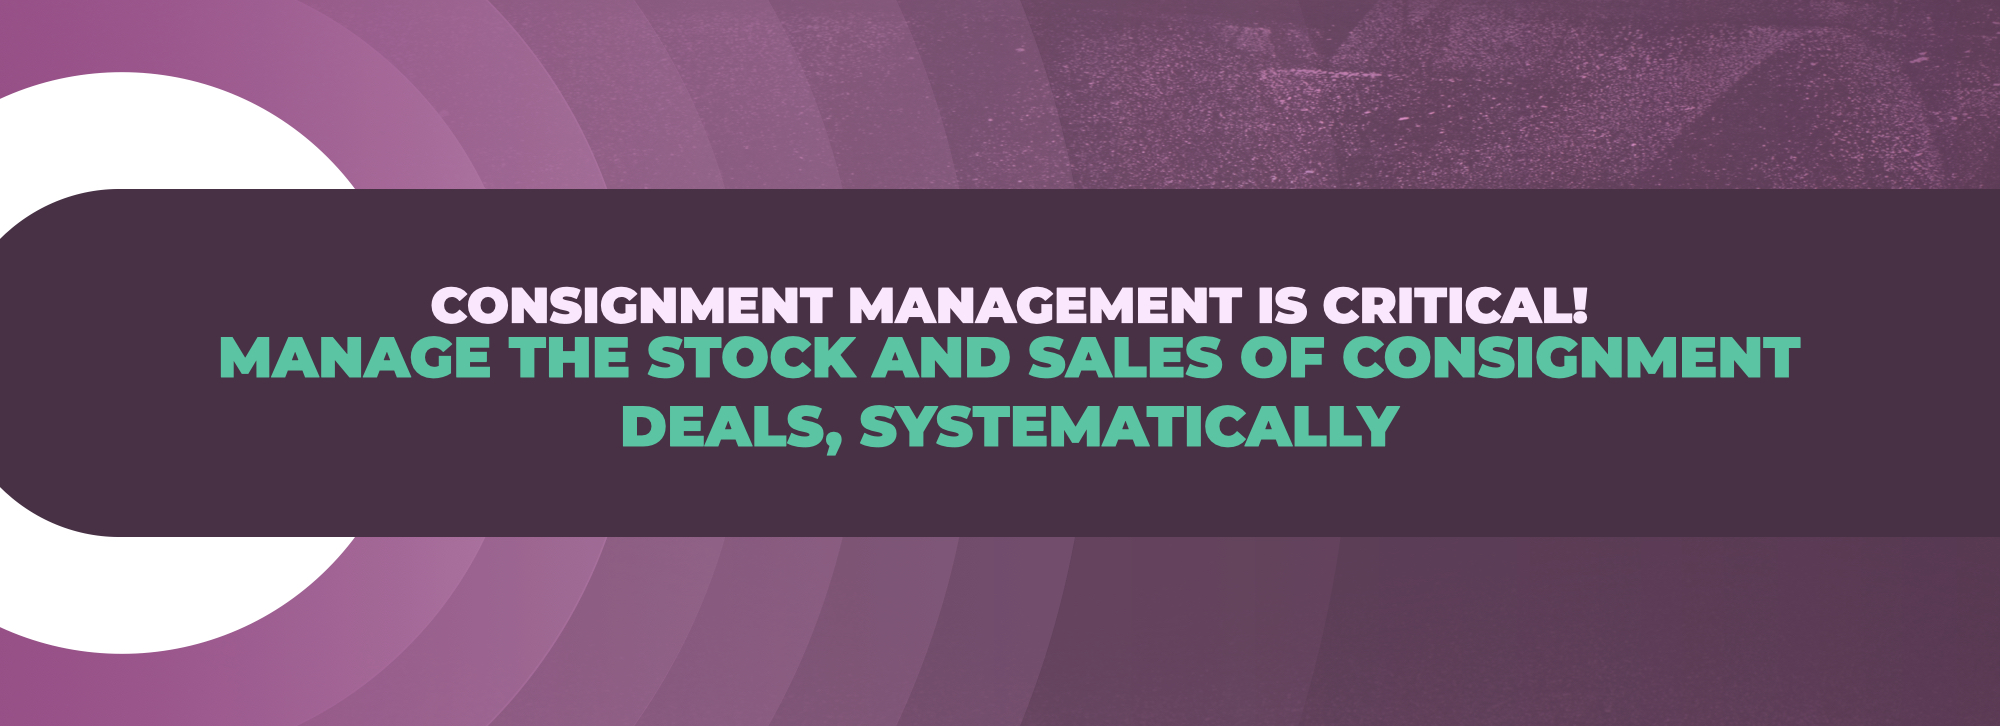
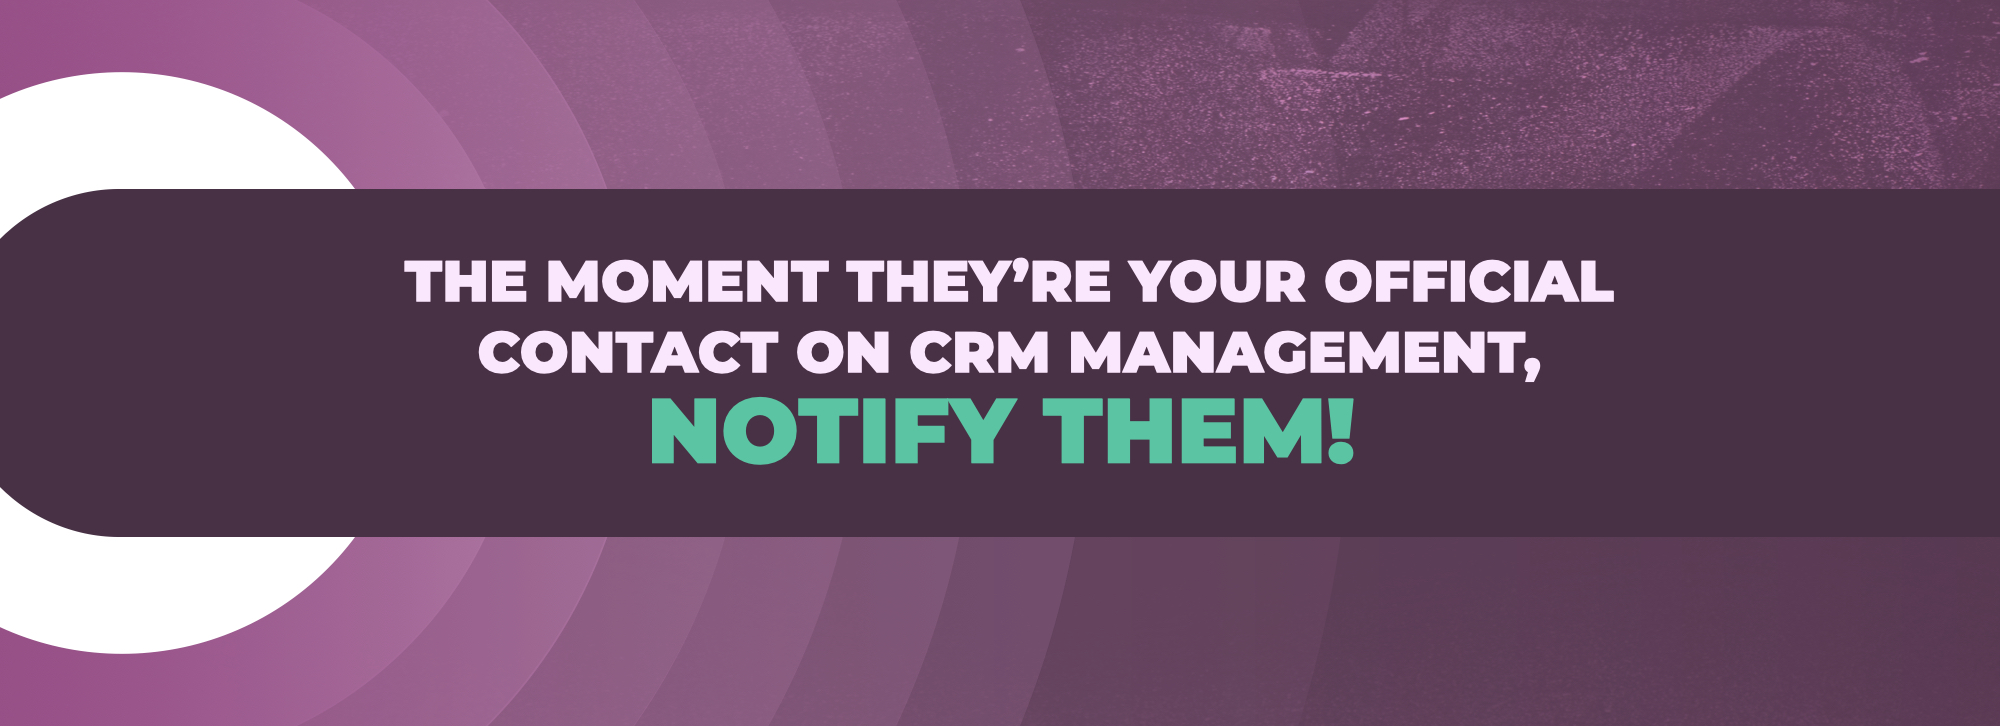
ffffff

Changed region(s): [[0.093, 0.3333, 0.899, 0.6364]]

diff --git a/7d_pos_test/static/description/index.html b/7d_pos_test/static/description/index.html
@@ -52,18 +52,20 @@
 
      <div style="background-color: #f6edf3; border-radius: 8px; padding: 20px; box-shadow: 0px 4px 8px rgba(0, 0, 0, 0.1); margin: 20px">
           <img src="images/features 1.png" style="width: 90px; padding: 10px 0" />
-          <h2 style="font-size: 20px; margin-bottom: 10px">Allows you to manage the stock and sales cycle of consignment orders</h2>
+          <h2 style="font-size: 20px; margin-bottom: 10px">Sends a notification email to recipients when your CRM Contact Form is submitted</h2>
      </div>
      <div style="background-color: #f6edf3; border-radius: 8px; padding: 20px; box-shadow: 0px 4px 8px rgba(0, 0, 0, 0.1); margin: 20px">
           <img src="images/features 2.png" style="width: 90px; padding: 10px 0" />
-          <h2 style="font-size: 20px; margin-bottom: 10px">All these put under one tab within the Sales > Consignment menu, easy to navigate</h2>
+          <h2 style="font-size: 20px; margin-bottom: 10px">
+               Let's them know that they are your lead / prospect customer, creates a confident opportunity
+          </h2>
           <!-- <p>text22222.</p> -->
      </div>
-     <div style="background-color: #f6edf3; border-radius: 8px; padding: 20px; box-shadow: 0px 4px 8px rgba(0, 0, 0, 0.1); margin: 20px">
+     <!-- <div style="background-color: #f6edf3; border-radius: 8px; padding: 20px; box-shadow: 0px 4px 8px rgba(0, 0, 0, 0.1); margin: 20px">
           <img src="images/features 3.png" style="width: 90px; padding: 10px 0" />
           <h2 style="font-size: 20px; margin-bottom: 10px">Consignment Returns and Transfers also made available in this module</h2>
-          <!-- <p>text22222.</p> -->
-     </div>
+          <p>text22222.</p>
+     </div> -->
 </section>
 <!-- ------------------------------------------------------------------------------------------ -->
 
@@ -82,7 +84,7 @@
      <h2 style="grid-column: 1/3; text-align: center; color: #676767; font-weight: 700">HOW IT WORKS</h2>
      <div style="background-color: #ffffff; border-radius: 8px; padding: 20px; box-shadow: 0px 4px 8px rgba(0, 0, 0, 0.1); margin: 20px">
           <!-- <img src="images/HIW-1.png" style="width: 10vh;" /> -->
-          <h2 style="font-size: 20px; margin-bottom: 10px">No configuration required. Implement and set your consignment partners</h2>
+          <h2 style="font-size: 20px; margin-bottom: 10px">No configuration required, install and review the contact form in CRM Leads</h2>
           <!-- <p>text1111111.</p> -->
      </div>
      <!-- <div style="background-color: #ffffff; border-radius: 8px; padding: 20px; box-shadow: 0px 4px 8px rgba(0, 0, 0, 0.1); margin: 20px">
